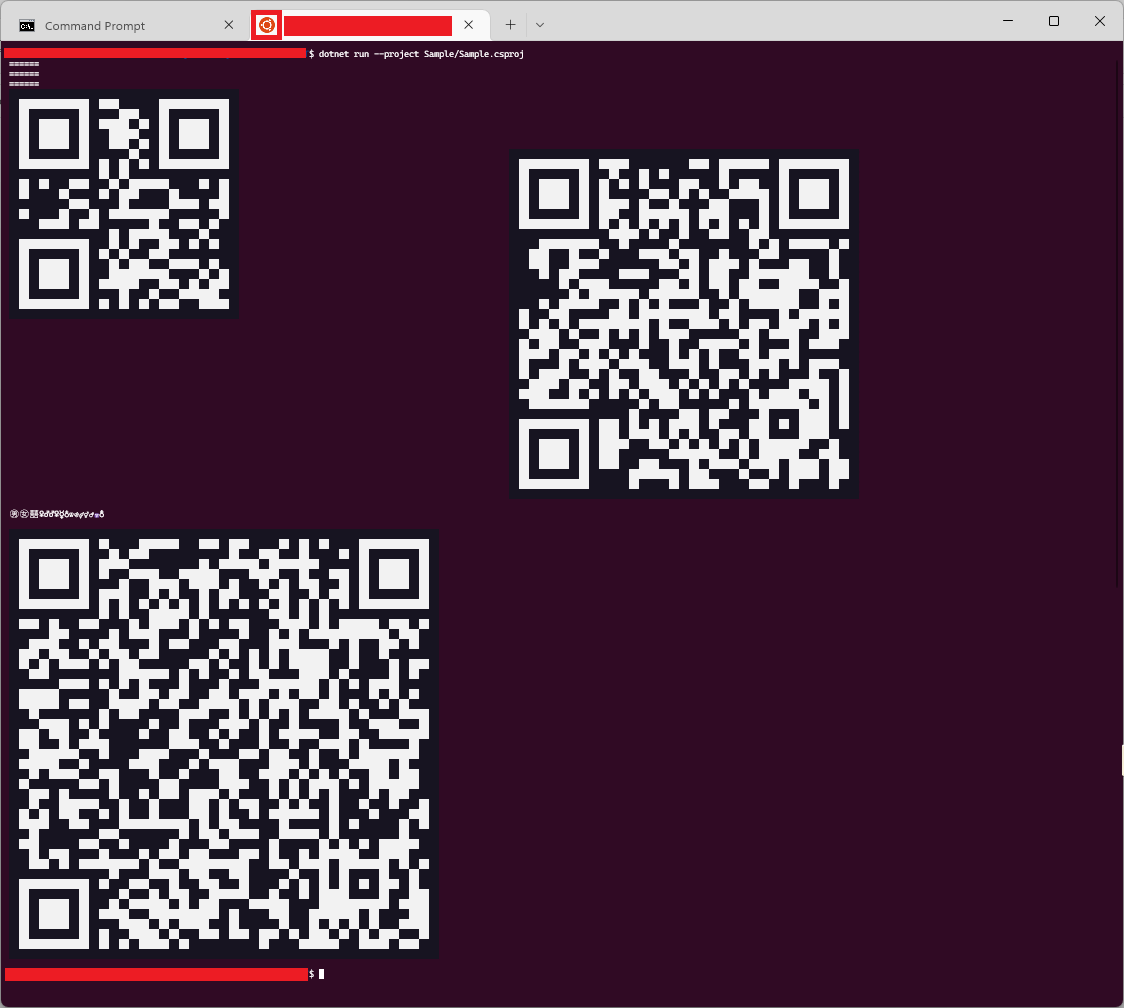
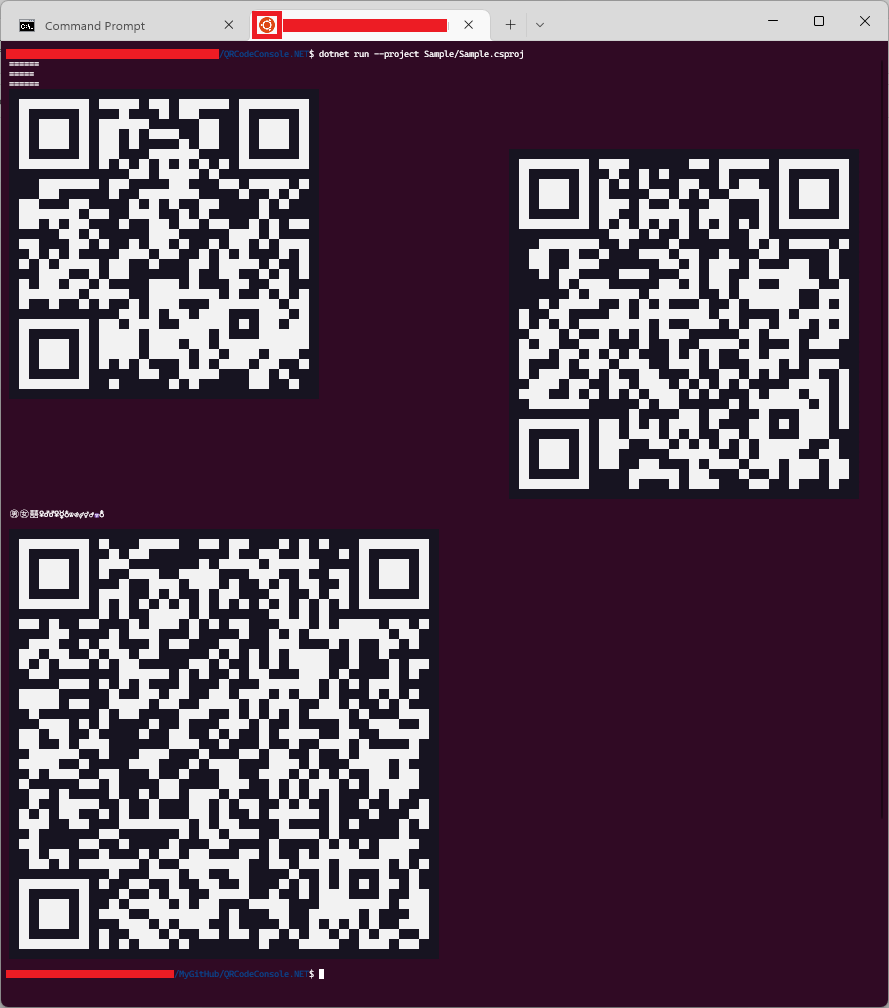
1

diff --git a/Sample/Program.cs b/Sample/Program.cs
@@ -7,7 +7,7 @@ Console.WriteLine("======");
 
 System.Console.Out.WriteQRCodeLine
             (
-                      data                          : "于斯人也"             //待生成二维码原始数据
+                      data  :       "AwesomeYuer于斯人也@Microshaoft"        //待生成二维码原始数据
 
                     , errorCorrectionLevel          : "M"                   //二维码纠错级别
                     , characterSet                  : "utf-8"               //二维码字符集
